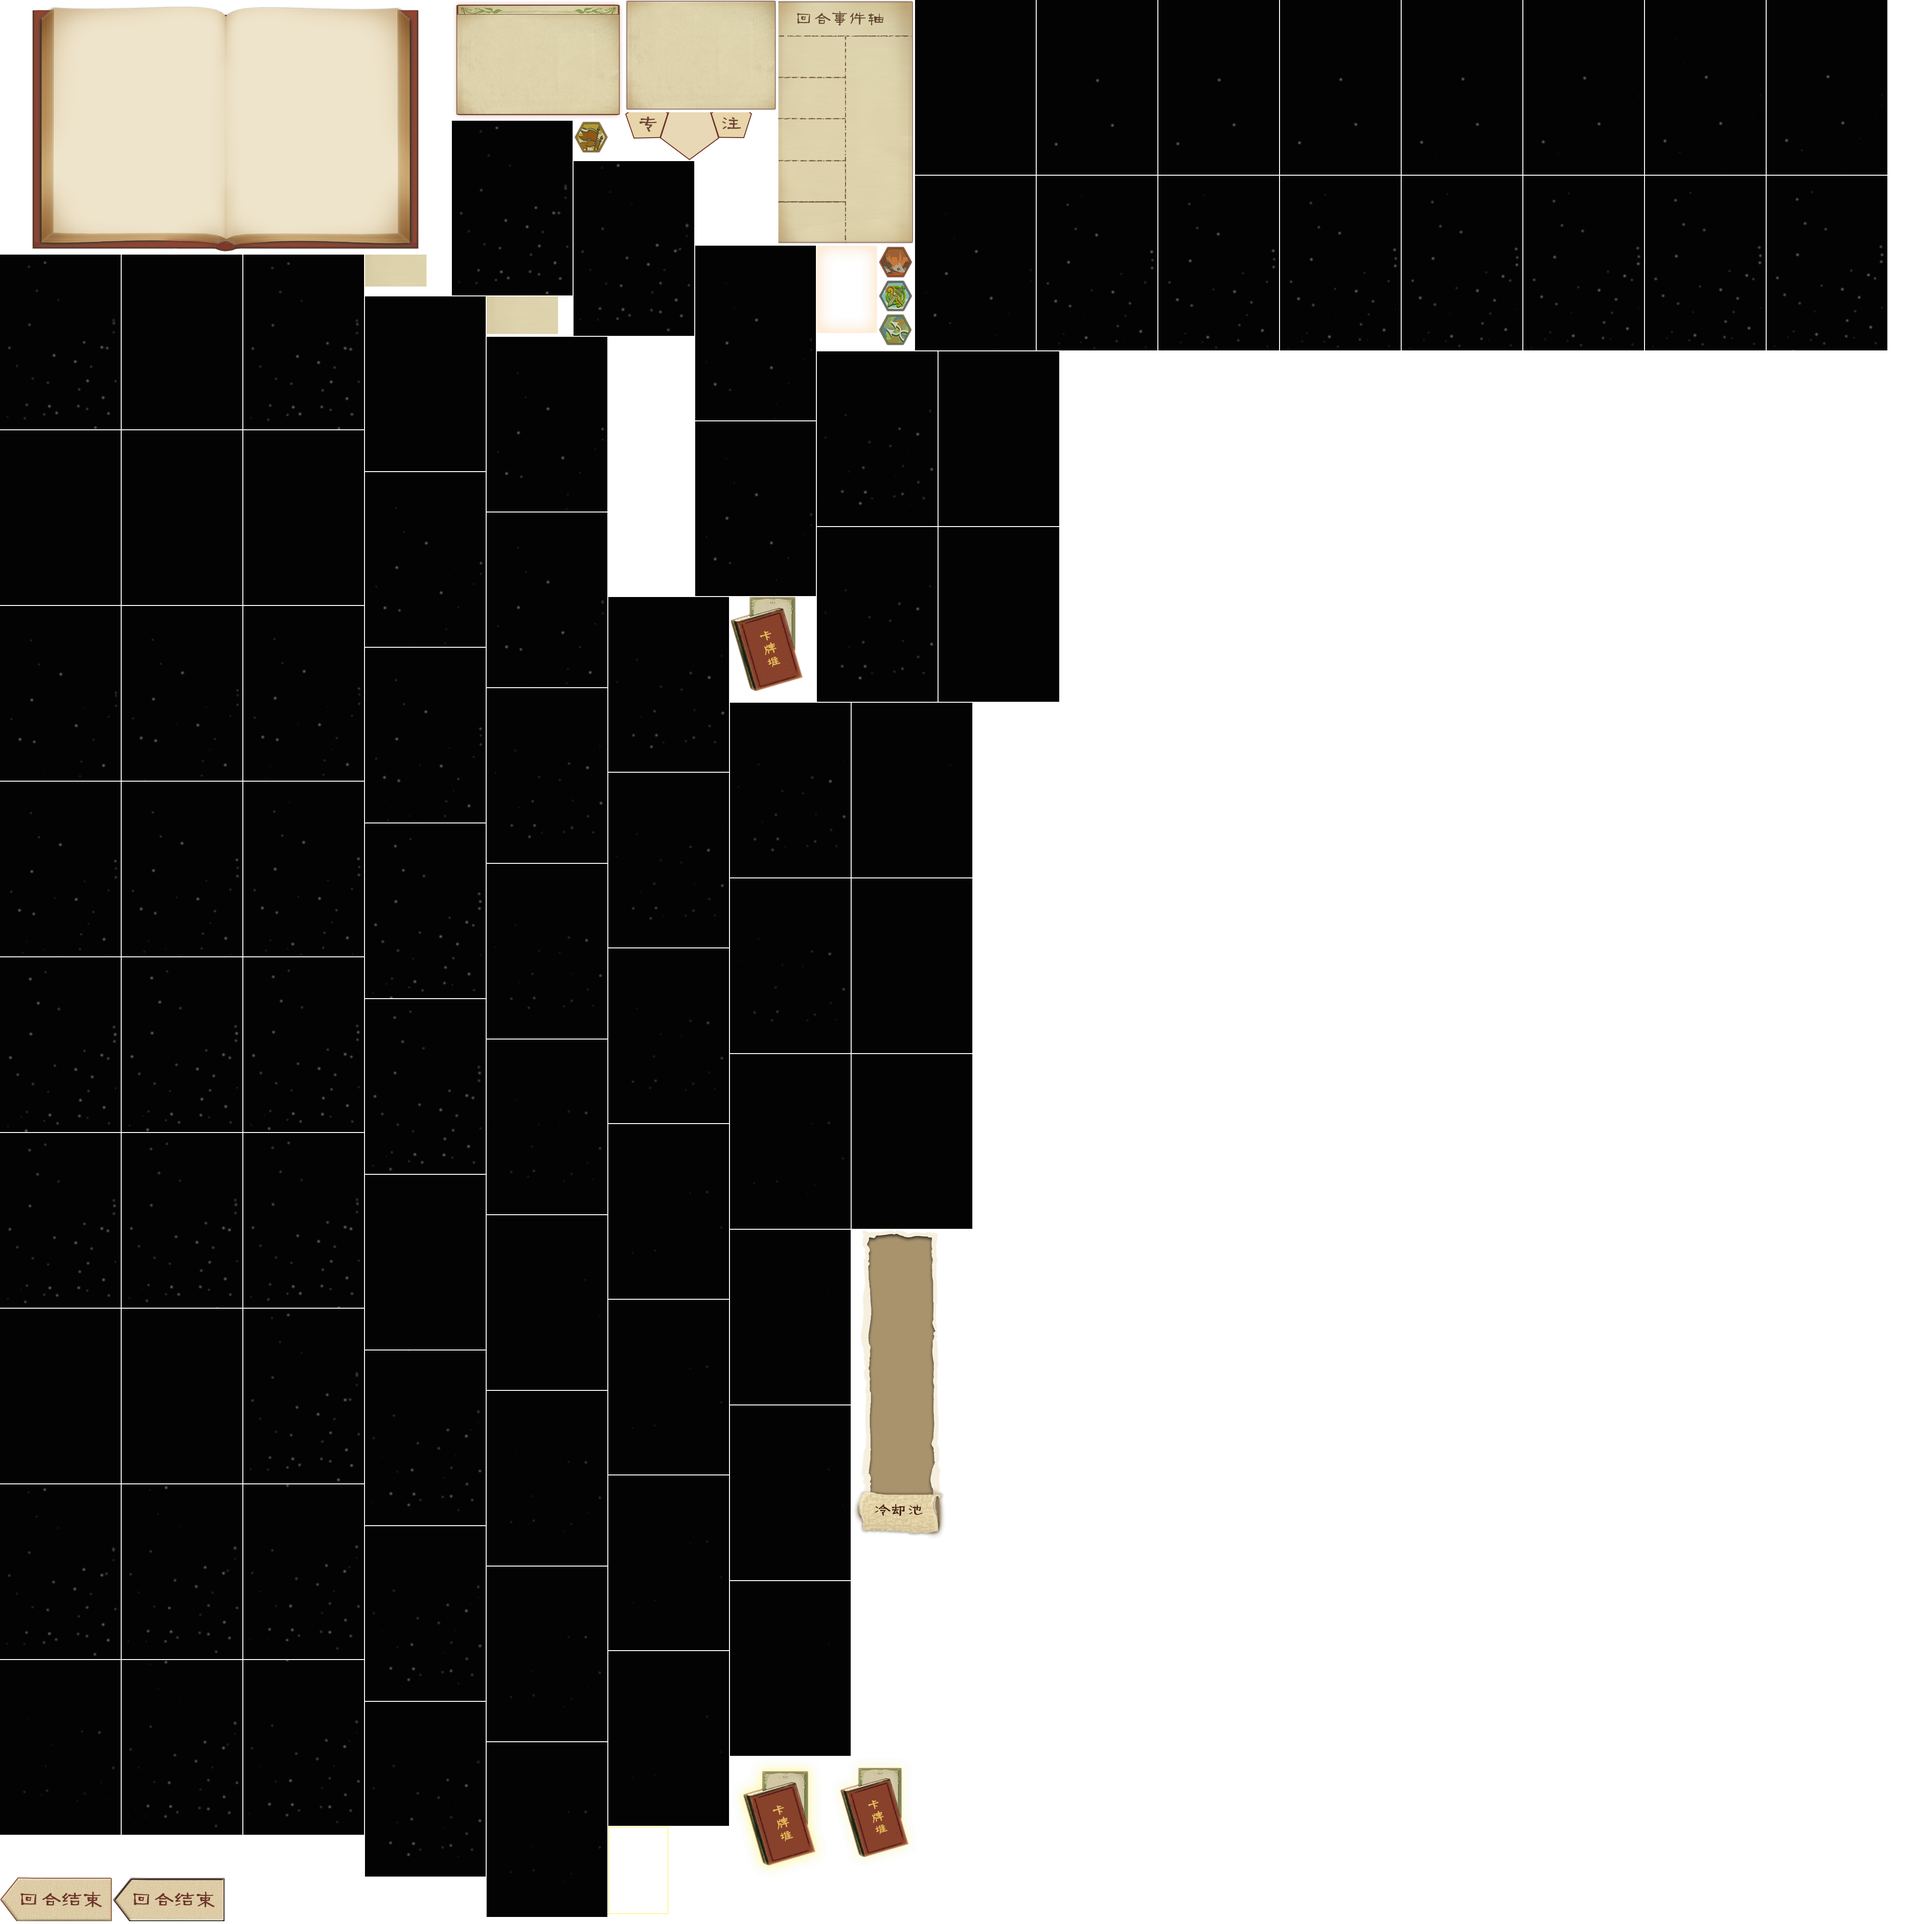
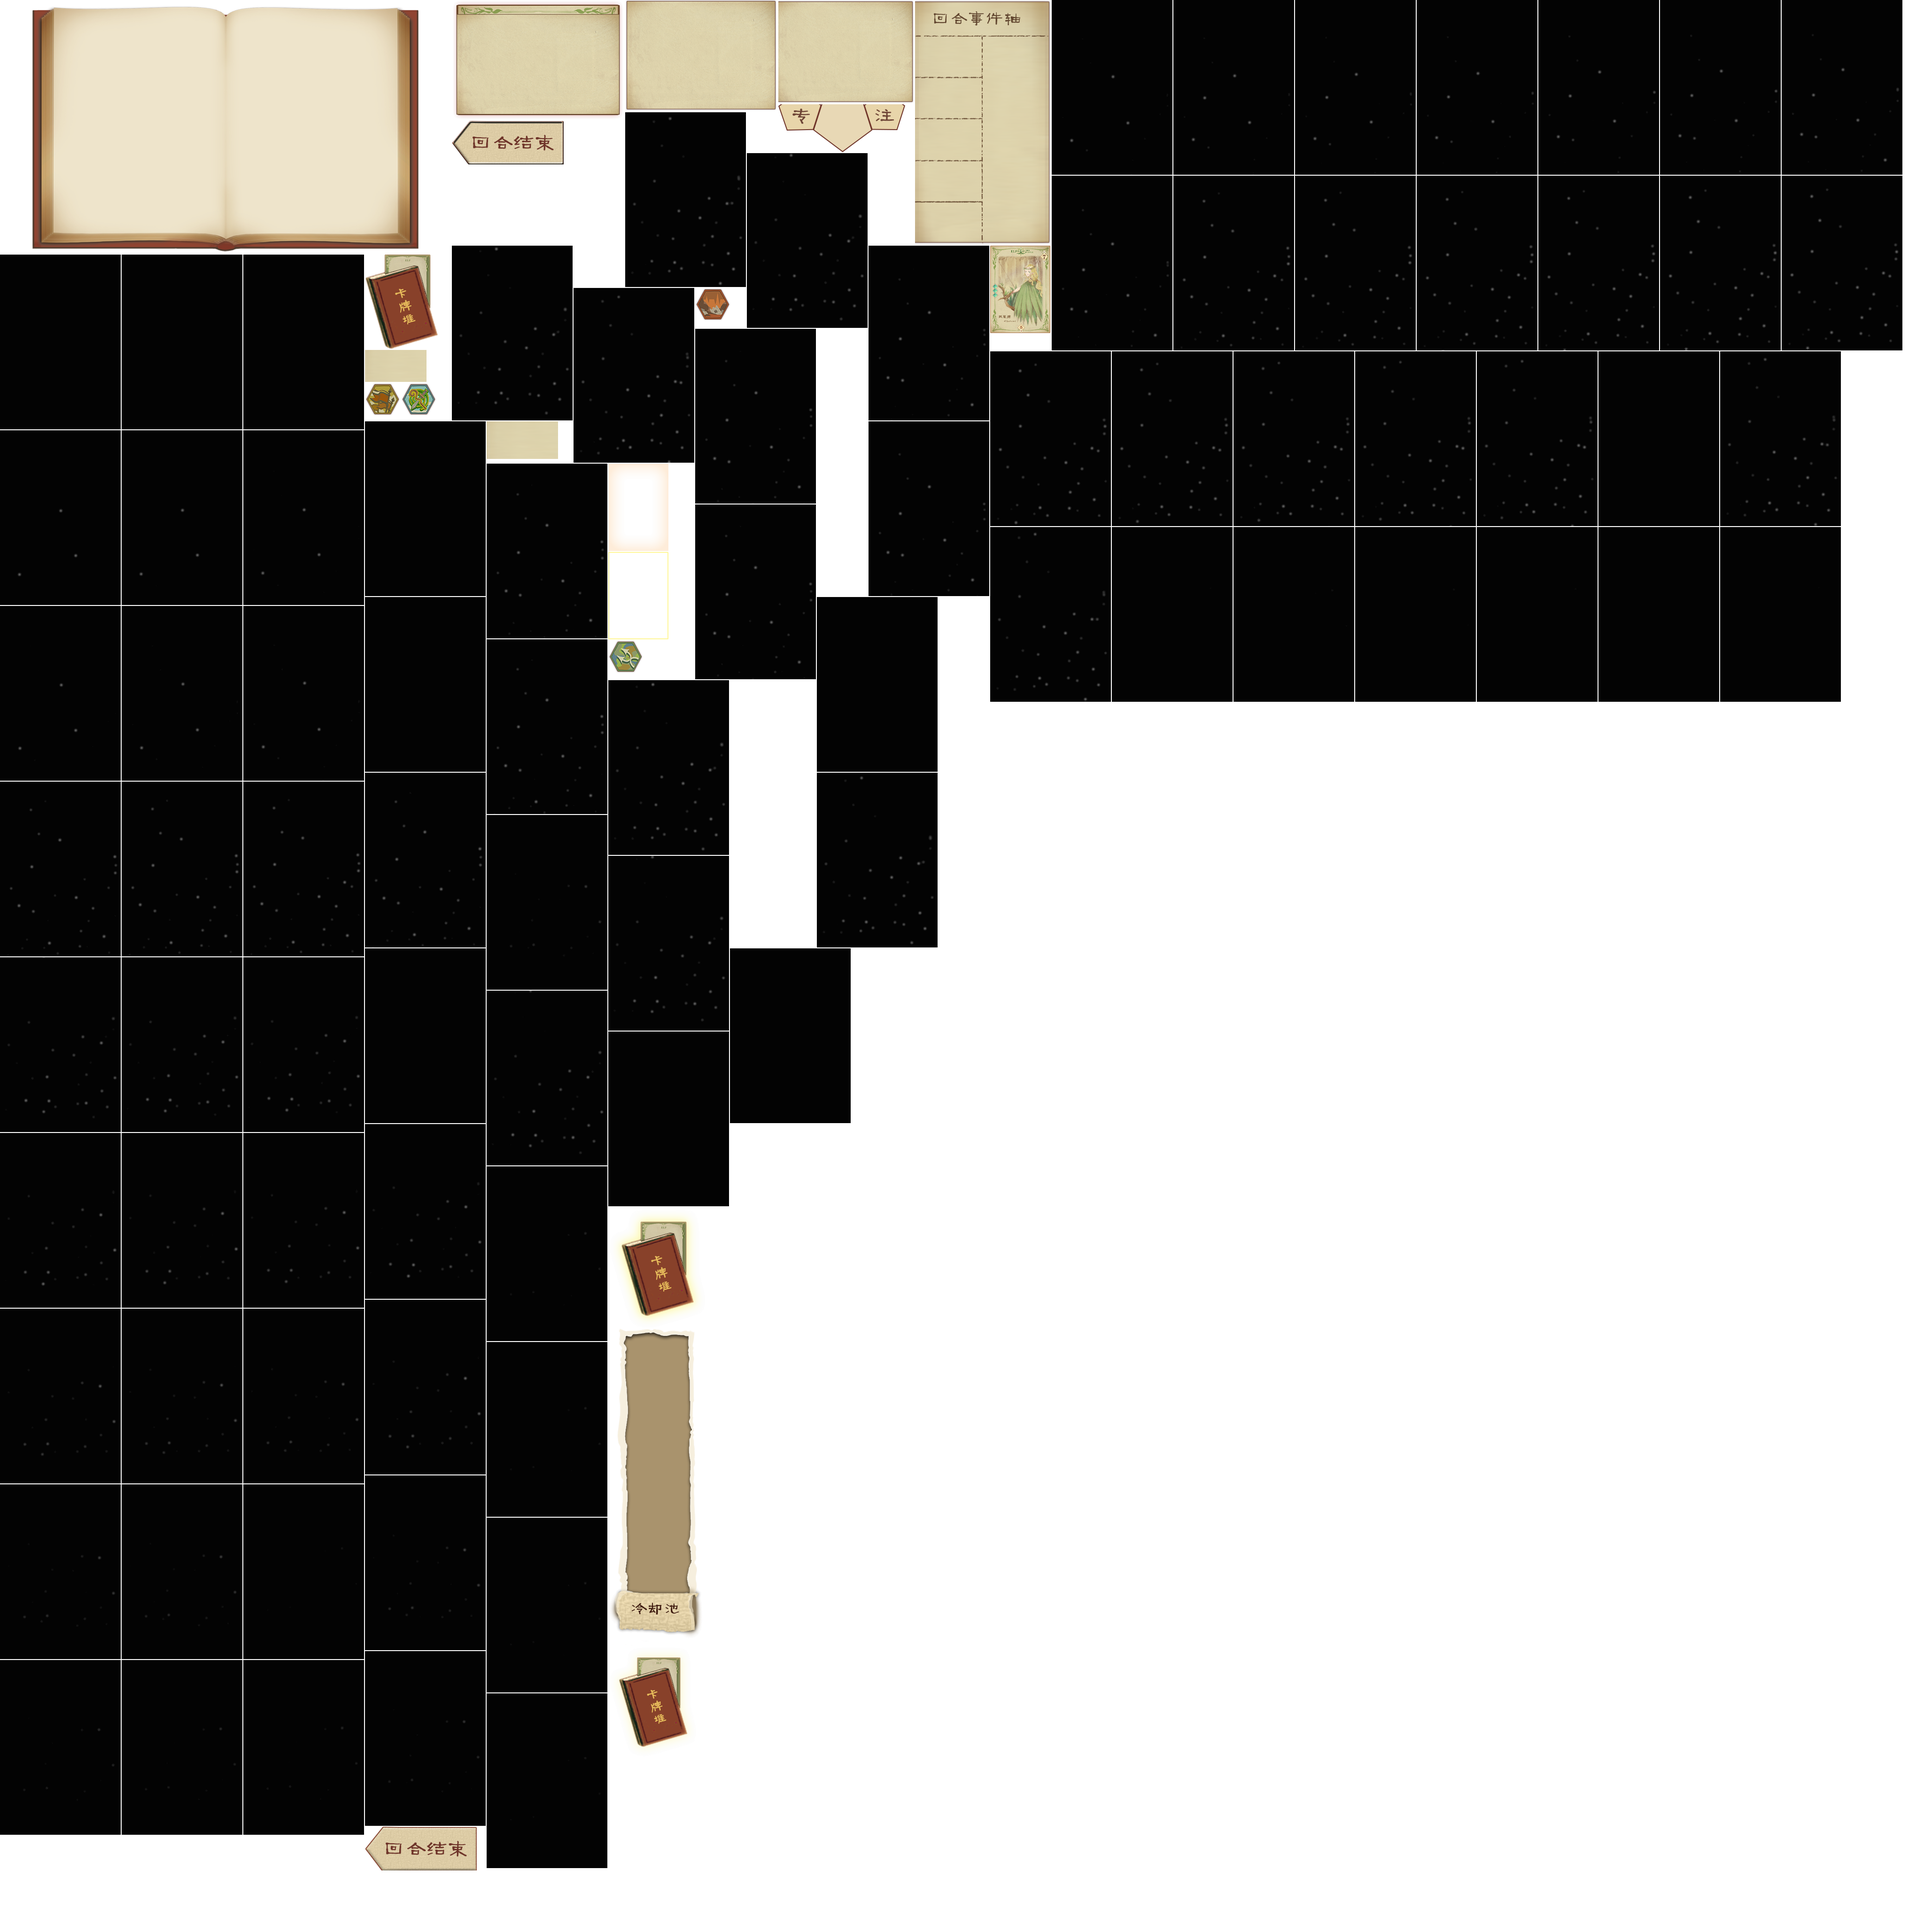
添加调试按钮，卡牌和AP值

Changed region(s): [[0.1875, 0.0, 1.0, 1.0], [0.0, 0.9688, 0.125, 1.0]]

diff --git a/GloryFantasy/Assets/Scripts/UI/FGUI/TEST_ONLY_cardListComponent.cs b/GloryFantasy/Assets/Scripts/UI/FGUI/TEST_ONLY_cardListComponent.cs
@@ -1,0 +1,101 @@
+using System.Linq;
+using FairyGUI;
+using GameCard;
+using GamePlay;
+using IMessage;
+using LitJson;
+
+namespace UI.FGUI
+{
+    public class TEST_ONLY_cardListComponent : IComponent
+    {
+
+        private Window _cardListWindow;
+        private GComponent _cardListFrame;
+        private GButton _clearAll;
+        private GList _cardList;
+
+        private string _pkgName;
+        private const string _cardSetsAssets = "fakeHandcard";
+        private const string _cardItem = "Button2";
+        
+        private TEST_ONLY_cardListComponent()
+        {
+            
+        }
+
+        public TEST_ONLY_cardListComponent(string pkgName, string resName)
+        {
+            _cardListFrame = UIPackage.CreateObject(pkgName, resName).asCom;
+
+            if (_cardListFrame == null) return;
+            _pkgName = pkgName;
+            _cardList = _cardListFrame.GetChild("n4").asList;
+            _clearAll = _cardListFrame.GetChild("n5").asButton;
+            _cardListWindow = new Window();
+            _cardListWindow.contentPane = _cardListFrame;
+            _cardListWindow.CenterOn(GRoot.inst, true);
+            _clearAll.onClick.Add(() =>
+            {
+                CardManager.Instance().SendAllHandcardToCd();
+            });
+            LoadCards();
+        }
+
+        public void LoadCards()
+        {
+            foreach (string cardId in CardManager.Instance().cardsData.Keys)
+            {
+                GButton cardItem = UIPackage.CreateObject(_pkgName, _cardItem).asButton;
+                cardItem.icon = UIPackage.GetItemURL(_cardSetsAssets, cardId.Split('_').First());
+                
+                cardItem.onRollOver.Add(() =>
+                {
+                    JsonData data = CardManager.Instance().GetCardJsonData(cardId);
+                    FGUIInterfaces.Instance().title.text = data["name"].ToString();
+                    FGUIInterfaces.Instance().effect.text = data["effect"].ToString();
+                    FGUIInterfaces.Instance().value.text = "冷却：" + data["cd"] + "    " + "专注值：" + data["cost"] + "\n" + data["type"];
+                    FGUIInterfaces.Instance().cardDescribeWindow.Show();
+                });
+                
+                cardItem.onRollOut.Add(() =>
+                {
+                    FGUIInterfaces.Instance().cardDescribeWindow.Hide();
+                });
+                
+                cardItem.onClick.Add(() =>
+                {
+                    CardManager.Instance().InsertIntoHandCard(cardId);
+                });
+                
+                _cardList.AddChild(cardItem);
+            }
+        }
+
+        public override string ToString()
+        {
+            return "cardListComponent";
+        }
+        
+        public void Operation()
+        {
+            if (!_cardListWindow.isShowing)
+            {
+                GRoot.inst.ShowPopup(_cardListWindow);
+            }
+        }
+
+        #region 不用的函数
+
+        public void Add(IComponent component)
+        {
+            throw new System.NotImplementedException();
+        }
+
+        public IComponent GetChild(string comId)
+        {
+            throw new System.NotImplementedException();
+        }
+        #endregion
+    }
+}

diff --git a/GloryFantasy/Assets/Scripts/UI/FGUI/cardBook/TestBookPage.cs b/GloryFantasy/Assets/Scripts/UI/FGUI/cardBook/TestBookPage.cs
@@ -2,6 +2,7 @@
 using UnityEngine;
 using FairyGUI;
 using GameCard;
+using LitJson;
 
 class TestBookPage : GComponent
 {
@@ -15,31 +16,31 @@ class TestBookPage : GComponent
 	/// <summary>
 	/// 卡牌书页面内左上角卡牌
 	/// </summary>
-	private GButton _cardItem1;
+	private GComponent _cardItem1;
 	
 	/// <summary>
 	/// 卡牌书页面内右上角卡牌
 	/// </summary>
-	private GButton _cardItem2;
+	private GComponent _cardItem2;
 	
 	/// <summary>
 	/// 卡牌书页面内左下角卡牌
 	/// </summary>
-	private GButton _cardItem3;
+	private GComponent _cardItem3;
 	
 	/// <summary>
 	/// 卡牌书页面内右下角卡牌
 	/// </summary>
-	private GButton _cardItem4;
+	private GComponent _cardItem4;
 
 	public override void ConstructFromXML(FairyGUI.Utils.XML xml)
 	{
 		base.ConstructFromXML(xml);
 
-		_cardItem1 = GetChild("cardItem1").asButton;
-		_cardItem2 = GetChild("cardItem2").asButton;
-		_cardItem3 = GetChild("cardItem3").asButton;
-		_cardItem4 = GetChild("cardItem4").asButton;
+		_cardItem1 = GetChild("cardItem1").asCom;
+		_cardItem2 = GetChild("cardItem2").asCom;
+		_cardItem3 = GetChild("cardItem3").asCom;
+		_cardItem4 = GetChild("cardItem4").asCom;
 		
 		_style = GetController("style");
 
@@ -56,7 +57,7 @@ class TestBookPage : GComponent
 		while (count < 4 && CardManager.Instance().cardsSets.Count > pos)
 		{
 			string cardId = CardManager.Instance().cardsSets[pos];
-			GButton item = null;
+			GComponent item = null;
 
 			switch (count)
 			{
@@ -77,16 +78,31 @@ class TestBookPage : GComponent
 			}
 
 			if (!cardId.Contains("#"))
-				item.icon = UIPackage.GetItemURL(_cardSetsAssets, cardId.Split('_').First());
+				item.GetChild("icon").asLoader.icon = UIPackage.GetItemURL(_cardSetsAssets, cardId.Split('_').First());
 			else
 			{
 				// 若带有'#'，则说明此id包含instanceid，需要重新解析
 				string nid = cardId.Substring(0, cardId.IndexOf('#'));
-				item.icon = UIPackage.GetItemURL(_cardSetsAssets, nid.Split('_').First());
+				item.GetChild("icon").asLoader.icon = UIPackage.GetItemURL(_cardSetsAssets, nid.Split('_').First());
 			}
 
 			item.onClick.Clear();
-			item.onClick.Add(() => { CardManager.Instance().InsertIntoHandCard(cardId); });
+			item.onClick.Add(() =>
+			{
+				Controller controller = item.GetController("controll");
+				if (controller.selectedIndex == 0)
+				{
+					JsonData data = CardManager.Instance().GetCardJsonData(cardId);
+					item.GetChild("name").asTextField.text = data["name"].ToString();
+					item.GetChild("effect").asTextField.text = data["effect"].ToString();
+					item.GetChild("values").asTextField.text = "冷却：" + data["cd"] + "    " + "专注值：" + data["cost"] + "\n" + data["type"];
+					controller.selectedIndex = 1;
+				}
+				else
+				{
+					controller.selectedIndex = 0;
+				}
+			});
 			count++;
 			pos++;
 		}
@@ -95,7 +111,7 @@ class TestBookPage : GComponent
 		{
 			while (count < 4)
 			{
-				GButton item = null;
+				GComponent item = null;
 				switch (count)
 				{
 					case 0:

diff --git a/GloryFantasy/Assets/Scripts/UI/FGUI/FGUIInterfaces.cs b/GloryFantasy/Assets/Scripts/UI/FGUI/FGUIInterfaces.cs
@@ -38,6 +38,9 @@ namespace UI.FGUI
 		private const string cooldowncardAssets = "fakeHandcard";
 		#endregion
 
+		private GButton cardListCall;
+		private GButton apCall;
+
 		private void Awake()
 		{
 			GRoot.inst.SetContentScaleFactor(1920, 1080);
@@ -65,6 +68,15 @@ namespace UI.FGUI
 			title = _cardDescibeFrame.GetChild("title").asTextField;
 			effect = _cardDescibeFrame.GetChild("effect").asTextField;
 			value = _cardDescibeFrame.GetChild("values").asTextField;
+
+			cardListCall = _mainUI.GetChild("n38").asButton;
+			cardListCall.onClick.Add(() =>
+			{
+				GetChild("cardListComponent").Operation();
+			});
+
+			apCall = _mainUI.GetChild("n40").asButton;
+			apCall.onClick.Add(() => { Player.Instance().AddAp(99); });
 			
 			cardDescribeWindow.SetXY(1900f - cardDescribeWindow._width, 20);
 		
@@ -90,6 +102,7 @@ namespace UI.FGUI
 			Add(new APDisplayerComponent(_mainUI.GetChild("APDisplayer").asCom));
 			// 添加回合信息展示组件
 			Add(new RoundInfoComponent(_mainUI.GetChild("roundText").asTextField));
+			Add(new TEST_ONLY_cardListComponent(pkgName, "cardListFrame"));
 
 			List<GComponent> list = new List<GComponent>();
 			list.Add(_mainUI.GetChild("roundEventButton1").asCom);

diff --git a/GloryFantasy/Assets/Scripts/Cards/CardManager.cs b/GloryFantasy/Assets/Scripts/Cards/CardManager.cs
@@ -52,6 +52,12 @@ namespace GameCard
         #endregion
         
         #region 变量可见性定义
+
+        public Dictionary<string, JsonData> cardsData
+        {
+            get { return _cardsData; }
+        }
+
         public List<string> cardsInHand { get { return _handcards; } }
         public List<string> cardsSets { get { return _cardsSets; } }
         public List<cdObject> cooldownCards { get { return _cooldownCards; } }
@@ -151,6 +157,17 @@ namespace GameCard
             
             InitCardsData();
             SetupExSkillMap();
+        }
+
+        public void SendAllHandcardToCd()
+        {
+            for (int i = 0; i < _handcards.Count; i++)
+            {
+                CooldownCard(_handcards[i], 1);
+            }
+            _handcardsInstance.Clear();
+            _handcards.Clear();
+            MsgDispatcher.SendMsg((int)MessageType.HandcardChange);
         }
 
         /// <summary>
